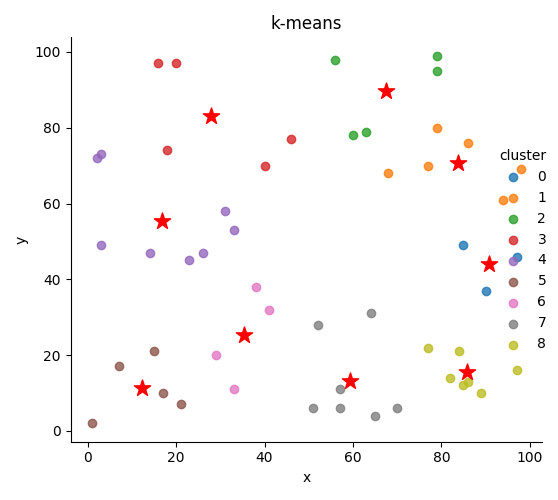
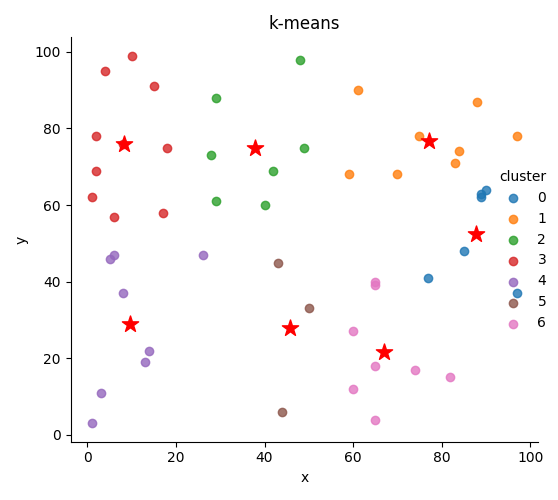
:zap: fix c_means

diff --git a/tasks/c_means_task3/c_means_task3.py b/tasks/c_means_task3/c_means_task3.py
@@ -1,0 +1,92 @@
+import numpy as np
+import matplotlib.cm as cm
+from matplotlib import pyplot as plt
+
+# Нечёткую кластеризацию от просто кластеризации отличает то, что объекты, которые подвергаются кластеризации,
+# относятся к конкретному кластеру с некой принадлежностью, а не однозначно, как это бывает при обычной кластеризации.
+
+# Описание алгоритма:
+#
+#     1. Распределяем точки по кластерам случайным образом.
+#     2. Для каждого кластера находим его центр, для этого считаем покомпонентное среднее всех относящихся к нему точек, причем каждая точка берется с весом, равным степени ее принадлежности к кластеру.
+#     3. Пересчитываем матрицу распределения по следующей формуле:
+#     4. Если на предыдущем шаге матрица распределения изменилась меньше, чем на cut_param, или если мы совершили максимально допустимое число итераций(max_iter), прекращаем работу. Иначе переходим к пункту 2.
+#     5. Результат работы алгоритма текущее разбиение точек на кластеры.
+
+n = 100
+dataset = np.array([[np.random.uniform(0, n), np.random.uniform(0, n)] for k in range(n // 2)])
+
+x = np.arange(n)
+ys = [i+x+(i*x)**2 for i in range(10)]
+colors = cm.rainbow(np.linspace(0.1, 2.1, len(ys)))
+
+def main():
+    CMeansModel = C_Means(dataset, 2, 3, .5)
+    CMeansModel.fit()
+    clusters = CMeansModel.find_clusters()
+
+    plt.figure(figsize=(4, 4))
+    plt.scatter(dataset[:, 0], dataset[:, 1], color=colors[clusters])
+    plt.show()
+
+if __name__ == '__main__':
+    class C_Means():
+        def __init__(self, dataset, c=2, k=3, cut_param=0.9):
+            self.dataset = dataset
+            self.c = c
+            self.k = k
+            self.cut_param = cut_param
+            self.max_iter = 100
+            self.tolerance = 0.01
+            self.dist = np.zeros((self.dataset.shape[0], self.k))
+            self.centroids = np.array([[np.random.uniform(0, n), np.random.uniform(0, n)]
+                                       for i in range(self.k)])
+            self.rate = np.array([[np.random.uniform(0, 1)
+                                   for i in range(self.k)]
+                                  for j in range(self.dataset.shape[0])])
+            self.clusters = np.array([])
+
+        def find_centroids(self):
+            self.centroids = (self.rate.T).dot(self.dataset) / self.rate.sum(axis=0)[:, None]
+
+        def dist2(self, list1, list2):
+            return sum((i - j) ** 2 for i, j in zip(list1, list2))
+
+        def update_data(self):
+            self.dist = np.array([[self.dist2(i, j) for i in self.centroids] for j in self.dataset])
+            self.rate = (1 / self.dist) ** (1 / (self.c - 1))
+            self.update_array()
+            self.rate = (self.rate / self.rate.sum(axis=1)[:, None])
+
+        def update_array(self):
+            arr = np.where(np.isinf(self.rate))
+            for i in range(0, len(arr[0])):
+                self.rate[arr[0][i]] = 0
+                self.rate[arr[0][i]][arr[1][i]] = 1
+
+        def fit(self):
+            iter = 1
+            while iter < self.max_iter:
+                prev_centroids = np.copy(self.centroids)
+                self.find_centroids()
+                self.update_data()
+                if max([self.dist2(i, k) for i, k in zip(self.centroids, prev_centroids)]) < self.tolerance:
+                    break
+                iter += 1
+
+        def find_clusters(self):
+            clusters = np.array([])
+            for i in range(len(self.rate)):
+
+                i_max = self.rate[i][0]
+                i_max_indx = 0
+                for j in range(len(self.rate[i])):
+                    if (self.rate[i][j] > i_max):
+                        i_max = self.rate[i][j]
+                        i_max_indx = j
+                if (i_max > self.cut_param):
+                    clusters = np.append(list(clusters), i_max_indx + 1).astype(int)
+                else:
+                    clusters = np.append(list(clusters), 0).astype(int)
+            return clusters
+    main()

diff --git a/tasks/DB_Scan_task4/DBScan_4.py b/tasks/DB_Scan_task4/DBScan_4.py
@@ -1,0 +1,120 @@
+import matplotlib.pyplot as plt
+import matplotlib.colors as colorsq
+import numpy as np
+
+
+def distance(x1, y1, x2, y2):
+    return np.sqrt((x1 - x2) ** 2 + (y1 - y2) ** 2)
+
+
+n = 200
+eps, min_pts = 5, 3
+color_list = []
+
+colors = ['lavenderblush', 'blue', 'green', 'cyan', 'magenta', 'yellow', 'black', 'darkmagenta', 'darkorange', 'maroon',
+          'pink', 'crimson', 'lime', 'red', 'gray', 'olive', 'dodgerblue', 'skyblue', 'orangered', 'sienna', 'olive']
+
+x = [np.random.randint(1, 100) for i in range(n)]
+y = [np.random.randint(1, 100) for i in range(n)]
+flags = []
+
+for i in range(0, n):
+    neighbours_count = -1
+    for j in range(0, n):
+        if distance(x[i], y[i], x[j], y[j]) <= eps:
+            neighbours_count += 1
+    if neighbours_count >= min_pts:
+        flags.append('g')
+    else:
+        flags.append('lavenderblush')
+for i in range(0, n):
+    if flags[i] == 'lavenderblush':
+        for j in range(0, n):
+            if flags[j] == 'g':
+                if distance(x[i], y[i], x[j], y[j]) <= eps:
+                    flags[i] = 'y'
+cluster = []
+for i in range(n):
+    cluster.append(0)
+c = 1
+
+for i in range(0, n):
+    if flags[i] == 'g':
+        for j in range(0, n):
+            if distance(x[i], y[i], x[j], y[j]) <= eps:
+                if flags[j] == 'g':
+                    if cluster[i] == 0 and cluster[j] == 0:
+                        cluster[i] = c
+                        cluster[j] = c
+                        c += 1
+                    elif cluster[i] == 0 and cluster[j] != 0:
+                        cluster[i] = cluster[j]
+                    elif cluster[j] == 0 and cluster[i] != 0:
+                        cluster[j] = cluster[i]
+                    elif cluster[i] != 0 and cluster[j] != 0:
+                        if cluster[i] < cluster[j]:
+                            cluster[j] = cluster[i]
+                        else:
+                            cluster[i] = cluster[j]
+                elif flags[j] == 'y':
+                    if cluster[i] == 0:
+                        cluster[i] = c
+                        c += 1
+
+for i in range(0, n):
+    if flags[i] == 'y':
+        for j in range(0, n):
+            if flags[j] == 'g':
+                if distance(x[i], y[i], x[j], y[j]) <= eps and cluster[j] != 0:
+                    cluster[i] = cluster[j]
+
+for i in range(n):
+    color_list.append(colors[cluster[i]])
+
+for i in range(0, n):
+    plt.scatter(x[i], y[i], color=flags[i])
+plt.show()
+
+for i in range(0, n):
+    plt.scatter(x[i], y[i], color=color_list[i])
+plt.show()
+
+
+# import matplotlib.pyplot as plt
+# import numpy as np
+#
+# def dist(x1,y1,x2,y2):
+#     return np.sqrt((x1 - x2)**2 + (y1 - y2)**2)
+#
+# n = 500
+# eps, minPts = 5,3
+# x = np.random.randint(1,100,n)
+# y = np.random.randint(1,100,n)
+# flags = []
+#
+# for i in range (0,n):
+#     # кол-во соседей
+#     neighb = 0
+#     for j in range(0, n):
+#         # если расстояние меньше эпсилон, добавляем соседа
+#         if dist(x[i], y[i],x[j],y[j]) < eps:
+#             neighb += 1
+#     # если соседи
+#     if neighb >= minPts:
+#         flags.append('g')
+#     else:
+#         flags.append('r')
+#
+# for i in range(0,n):
+#     if flags[i] != 'g':
+#         for j in range(0,n):
+#             if flags[j] == 'g':
+#                 if dist(x[i], y[i], x[j], y[j]) < eps:
+#                     flags[i] = 'y'
+#     plt.scatter(x[i],y[i], color=flags[i])
+# plt.show()
+# clusters = []
+# cl = 1
+#
+# # for i in range (0,n):
+# #     for j in range(i,n):
